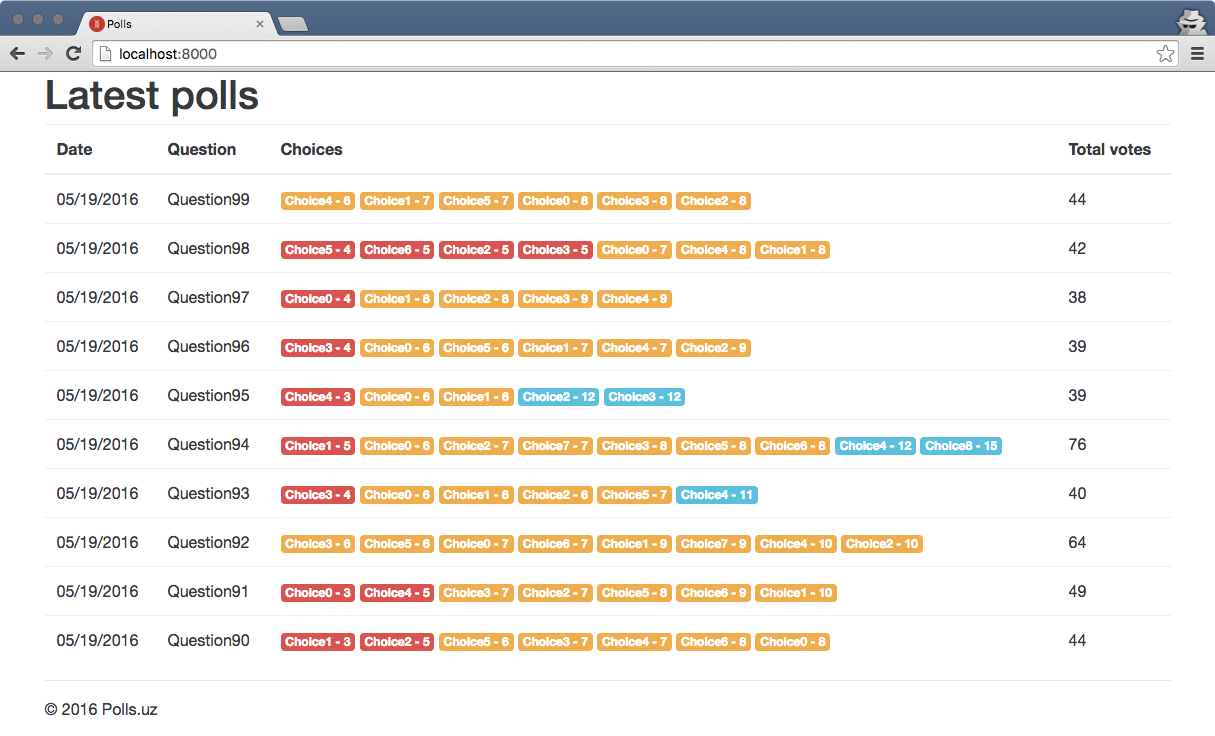
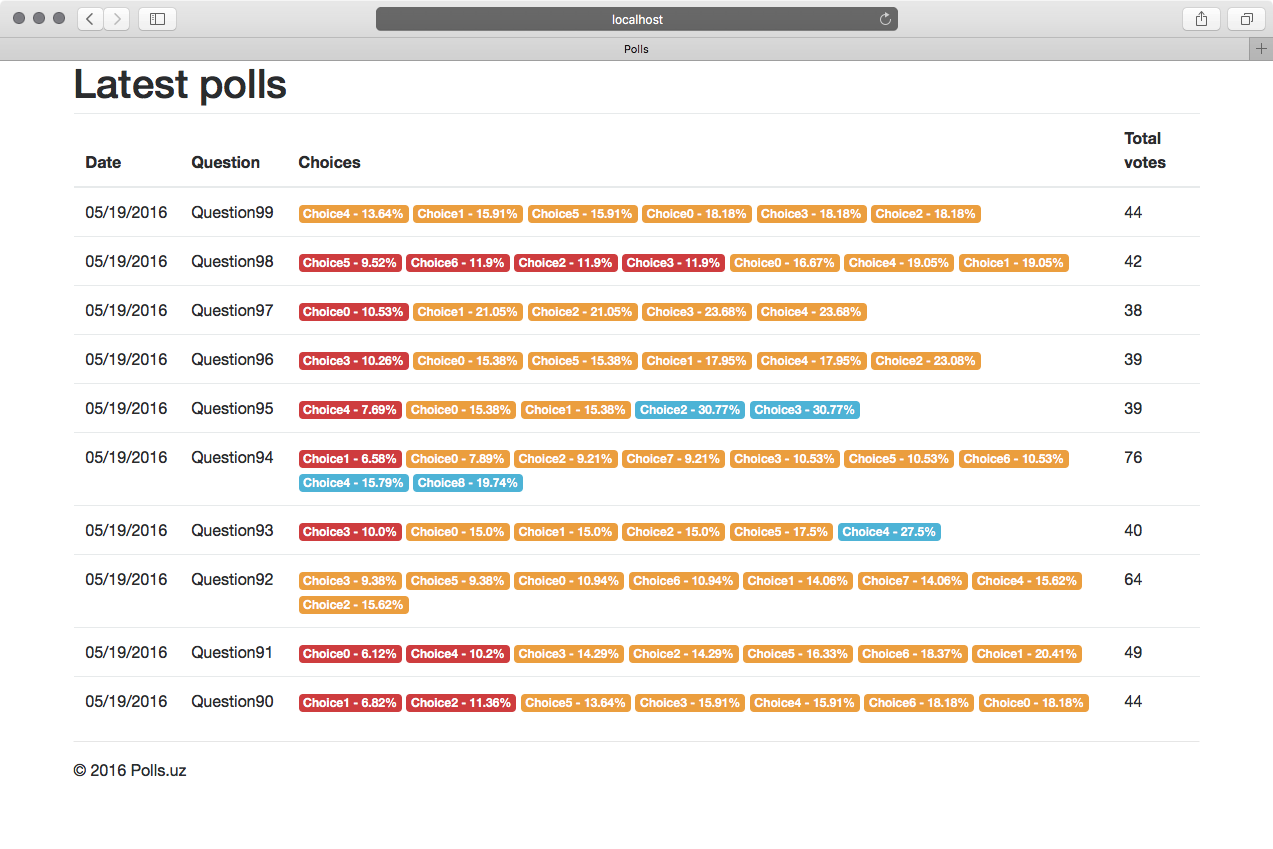
Made: percentage

diff --git a/polls/templates/index.html b/polls/templates/index.html
@@ -36,7 +36,7 @@
             <td>{{ poll.question }}</td>
             <td>
             {% for choice in poll.choice_set.all %}
-            <span class="label label-{{ choice.html_color_class }}">{{ choice.choice_text }} - {{ choice.votes }}</span>
+            <span class="label label-{{ choice.html_color_class }}">{{ choice.choice_text }} - {{ choice.get_vote_percentage }}%</span>
             {% endfor %}
             </td>
             <td>{{ poll.total_votes }}</td>

diff --git a/polls/models.py b/polls/models.py
@@ -100,6 +100,9 @@ class Choice(models.Model):
         else:
             return "primary"
 
+    def get_vote_percentage(self):
+        return round(float(self.votes)*100/float(self.poll.total_votes), 2)
+
     class Meta:
         db_table = 'choices'
         ordering = ['votes']
